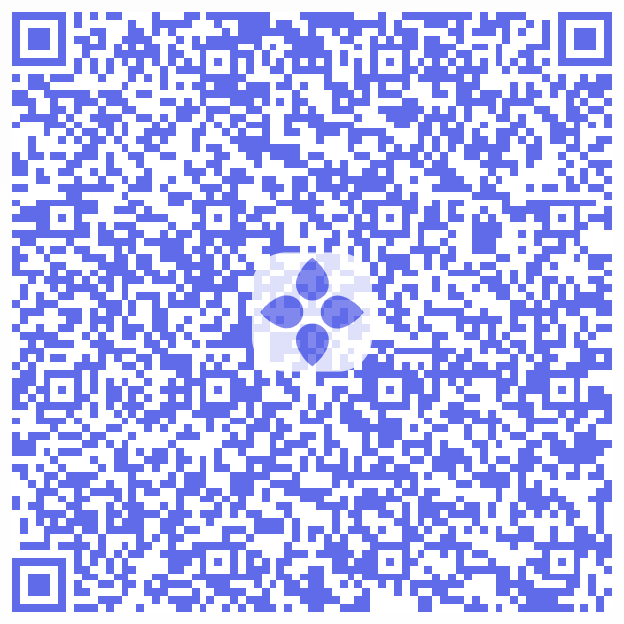
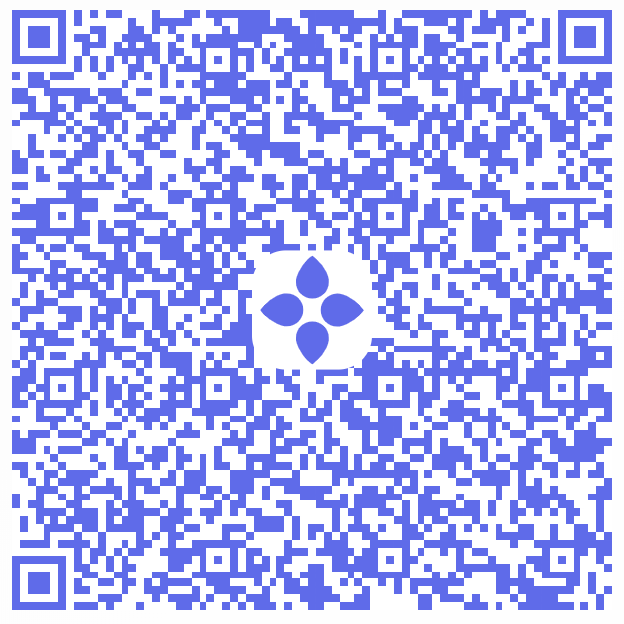
Add CHANGELOG and update image

diff --git a/src/RequestQRCode.tsx b/src/RequestQRCode.tsx
@@ -28,7 +28,6 @@ RequestQRCode.defaultProps = {
   hideLogo: false,
   padding: 0,
   ecLevel: 'M',
-  logoOpacity: 0.8,
 }
 
 export {RequestQRCode}

diff --git a/CHANGELOG.md b/CHANGELOG.md
@@ -1,0 +1,25 @@
+## 2.0.0
+
+**BREAKING**:
+
+- Removed the `renderAs` prop, the QR will always render with canvas now
+
+**New Features**:
+
+- Add a image overlay to the QR code, can be turned off with the `hideLogo` prop
+
+## 1.1.1
+
+**Bug fixes**:
+
+- Fix types
+
+## 1.1.0
+
+**New Features**:
+
+- Add verification utils
+
+## 1.0.0
+
+- Initial release
